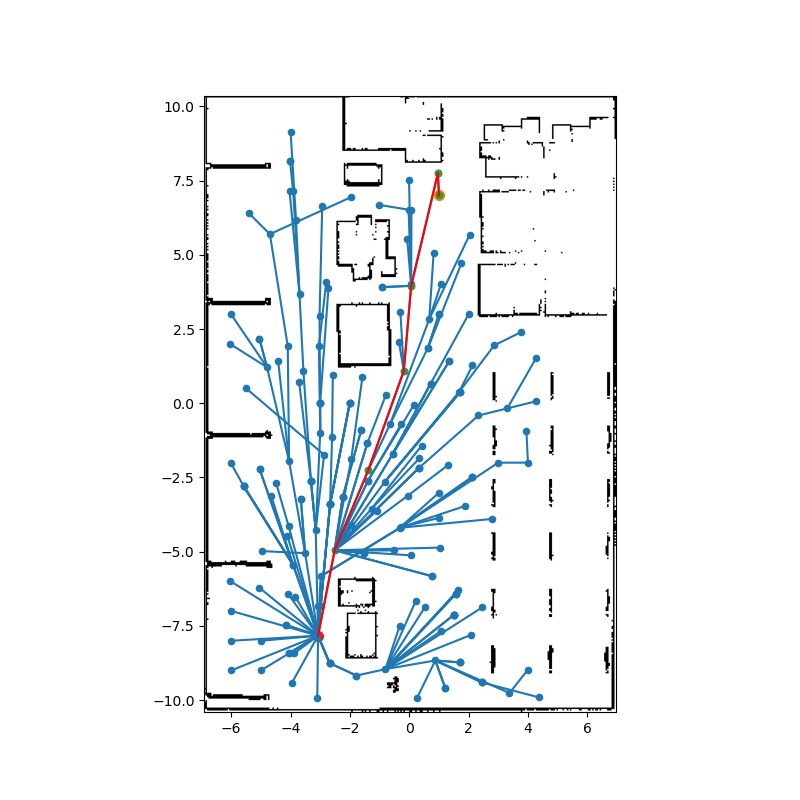
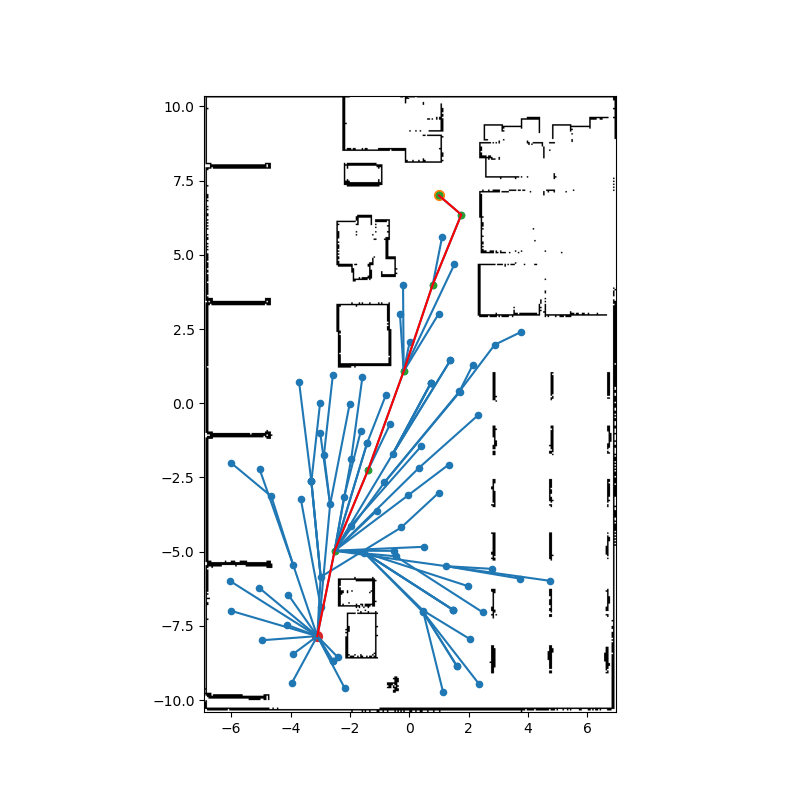
Add files via upload

diff --git a/el7009_diff_drive_robot/scripts/dwa_node.py b/el7009_diff_drive_robot/scripts/dwa_node.py
@@ -41,7 +41,7 @@ class DWANode(Node):
         self.max_accel = 1.5
         self.max_dyawrate = np.radians(150.0)
         self.last_odom_time = None
-        self.predict_time = 3.0
+        self.predict_time = 2.0
         self.dt = 0.1
         self.last_state_time = 0
         self.min_goal_distance = 0.5
@@ -82,6 +82,8 @@ class DWANode(Node):
         # self.get_logger().info(f'Sensors: {self.scan}')
         self.angle_min = msg.angle_min
         self.angle_increment = msg.angle_increment
+        self.range_min = msg.range_min
+        self.range_max = msg.range_max
 
     def plan_callback(self, msg):
         
@@ -127,8 +129,8 @@ class DWANode(Node):
             a = self.angle_min + i*self.angle_increment
             ox = self.state[0] + r * np.cos(self.state[2] + a)
             oy = self.state[1] + r * np.sin(self.state[2] + a)
-            obstacles.append((ox, oy))
-            if np.sqrt((ox - self.state[0])**2 + (oy - self.state[1])**2) < 0.32:
+            obstacles.append((round(ox), round(oy)))
+            if r - self.range_min <=  0.001 and :
                 self.get_logger().info(f'Crash at {self.state[:2]}')
                 pose = PoseStamped()
                 pose.header.frame_id = 'map'
@@ -171,18 +173,18 @@ class DWANode(Node):
         best_cost= -float('inf')
         best_u = [0.0, 0.0]
         best_traj = []
-        for v in np.linspace(dw[0], dw[1], 10): # Linear velocity
-            for w in np.linspace(dw[2], dw[3], 10): # Angular velocity 
+        for v in np.linspace(dw[0], dw[1], 5): # Linear velocity
+            for w in np.linspace(dw[2], dw[3], 5): # Angular velocity 
                 traj = self.predict_trajectory(state,goal, v, w) # Predictions
                 score = self.evaluate_trajectory(traj, goal, obstacles) # Calculate score
-                cost = [0.4*score[0],2.8*score[1],1.5*score[2]] # Score Function
+                cost = [0.1*score[0],1.2*score[1],0.6*score[2]] # Score Function
                 if sum(cost) > best_cost: # Save best configuration
                     best_score = cost
                     best_cost = sum(cost)
                     best_u = [v, w]
                 best_traj.append(traj)
         self.publish_path(best_traj)
-        self.get_logger().info(f'{best_score}')
+        # self.get_logger().info(f'{best_score}')
         return best_u
 
     def calc_dynamic_window(self, state):
@@ -216,14 +218,14 @@ class DWANode(Node):
         dy = goal[1] - traj[-1][1]
         angle_to_goal = np.arctan2(dy, dx)
         heading_score = np.pi - abs(normalize_angle(angle_to_goal -  traj[-1][2]))
-        min_dist = 5
+        min_dist = self.range_max
         for ox, oy in obstacles:
             for pose in traj:
                 x = pose[0]
                 y = pose[1]
                 d = (x - ox)**2 + (y - oy)**2
                 # self.get_logger().info(f'{d}')
-                if d < 0.3**2:
+                if d**0.5 -  self.range_min<= 0.05:
                     return [-float('inf')]*3 # If collision, return worst score
                 min_dist = min(min_dist,d)
 

diff --git a/amcl_launch/map/inlation.py b/amcl_launch/map/inlation.py
@@ -1,0 +1,22 @@
+import cv2
+import numpy as np
+import matplotlib.pyplot as plt
+import os
+
+# Cargar mapa como escala de grises
+map_img = cv2.imread("mapa.pgm", cv2.IMREAD_GRAYSCALE)
+
+# Umbral para determinar obstáculos (puede depender de tu threshold YAML)
+_, binary = cv2.threshold(map_img, 250, 255, cv2.THRESH_BINARY_INV)
+
+# Aplicar inflación (distance transform)
+dist_transform = cv2.distanceTransform(binary, cv2.DIST_L2, 5)
+
+inflation_radius_px = 0.3/0.05  # ajusta según tamaño del robot en píxeles
+inflated = np.clip(inflation_radius_px - dist_transform, 0, inflation_radius_px)
+costmap = (inflated / inflation_radius_px) * 100
+
+plt.imshow(costmap, cmap='hot')
+plt.title("Visualización de Costmap Inflado")
+plt.colorbar()
+plt.show()

diff --git a/el7009_diff_drive_robot/scripts/rrt_planner.py b/el7009_diff_drive_robot/scripts/rrt_planner.py
@@ -191,8 +191,8 @@ class RRTPlanner:
         # Hint: See how collisions are handled in pure_pursuit.py
         mx, my = self.world_to_map(*new_position)
       
-        for i in [-5, 0, 5]:
-            for j in [-5, 0, 5]:       
+        for i in [-2, 0, 2]:
+            for j in [-2, 0, 2]:       
                 if self._map[np.clip(int(my) + j, 0, self._map_height - 1), np.clip(int(mx) + i, 0, self._map_width - 1)] >= 1:
                     return True
         return False

diff --git a/el7009_diff_drive_robot/scripts/send_goal.py b/el7009_diff_drive_robot/scripts/send_goal.py
@@ -60,11 +60,11 @@ class GoalPublisher(Node):
 
 def main(args=None):
     goal_poses = [
-        [3,9.9],
-        [4,2],
-        [-3,-8],
-        [1,7],
-        [-3,4],
+        # [3,9.9],
+        # [4,2],
+        # [-3,-8],
+        # [1,7],
+        # [-3,4],
         [2,-9],
         [-3,7],
         [4,-7],
